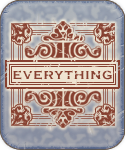
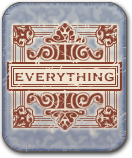
Drop shadows and proper yellow color from Josh.
git-svn-id: svn+ssh://src.earth.threerings.net/everything/trunk@266 a9e240f3-4568-de11-90a4-003048321218

diff --git a/src/gwt/public/global.css b/src/gwt/public/global.css
@@ -100,7 +100,7 @@ html, body {
   white-space: nowrap;
 }
 .header td, .header td a {
-  color: #E8D669;
+  color: #F1E369;
 }
 
 .header .Bits {

diff --git a/src/gwt/public/game.css b/src/gwt/public/game.css
@@ -105,6 +105,7 @@
   width: 125px;
   height: 150px;
   position: relative;
+  padding: 2px 5px 5px 2px;
 }
 
 .thingCardFront {
